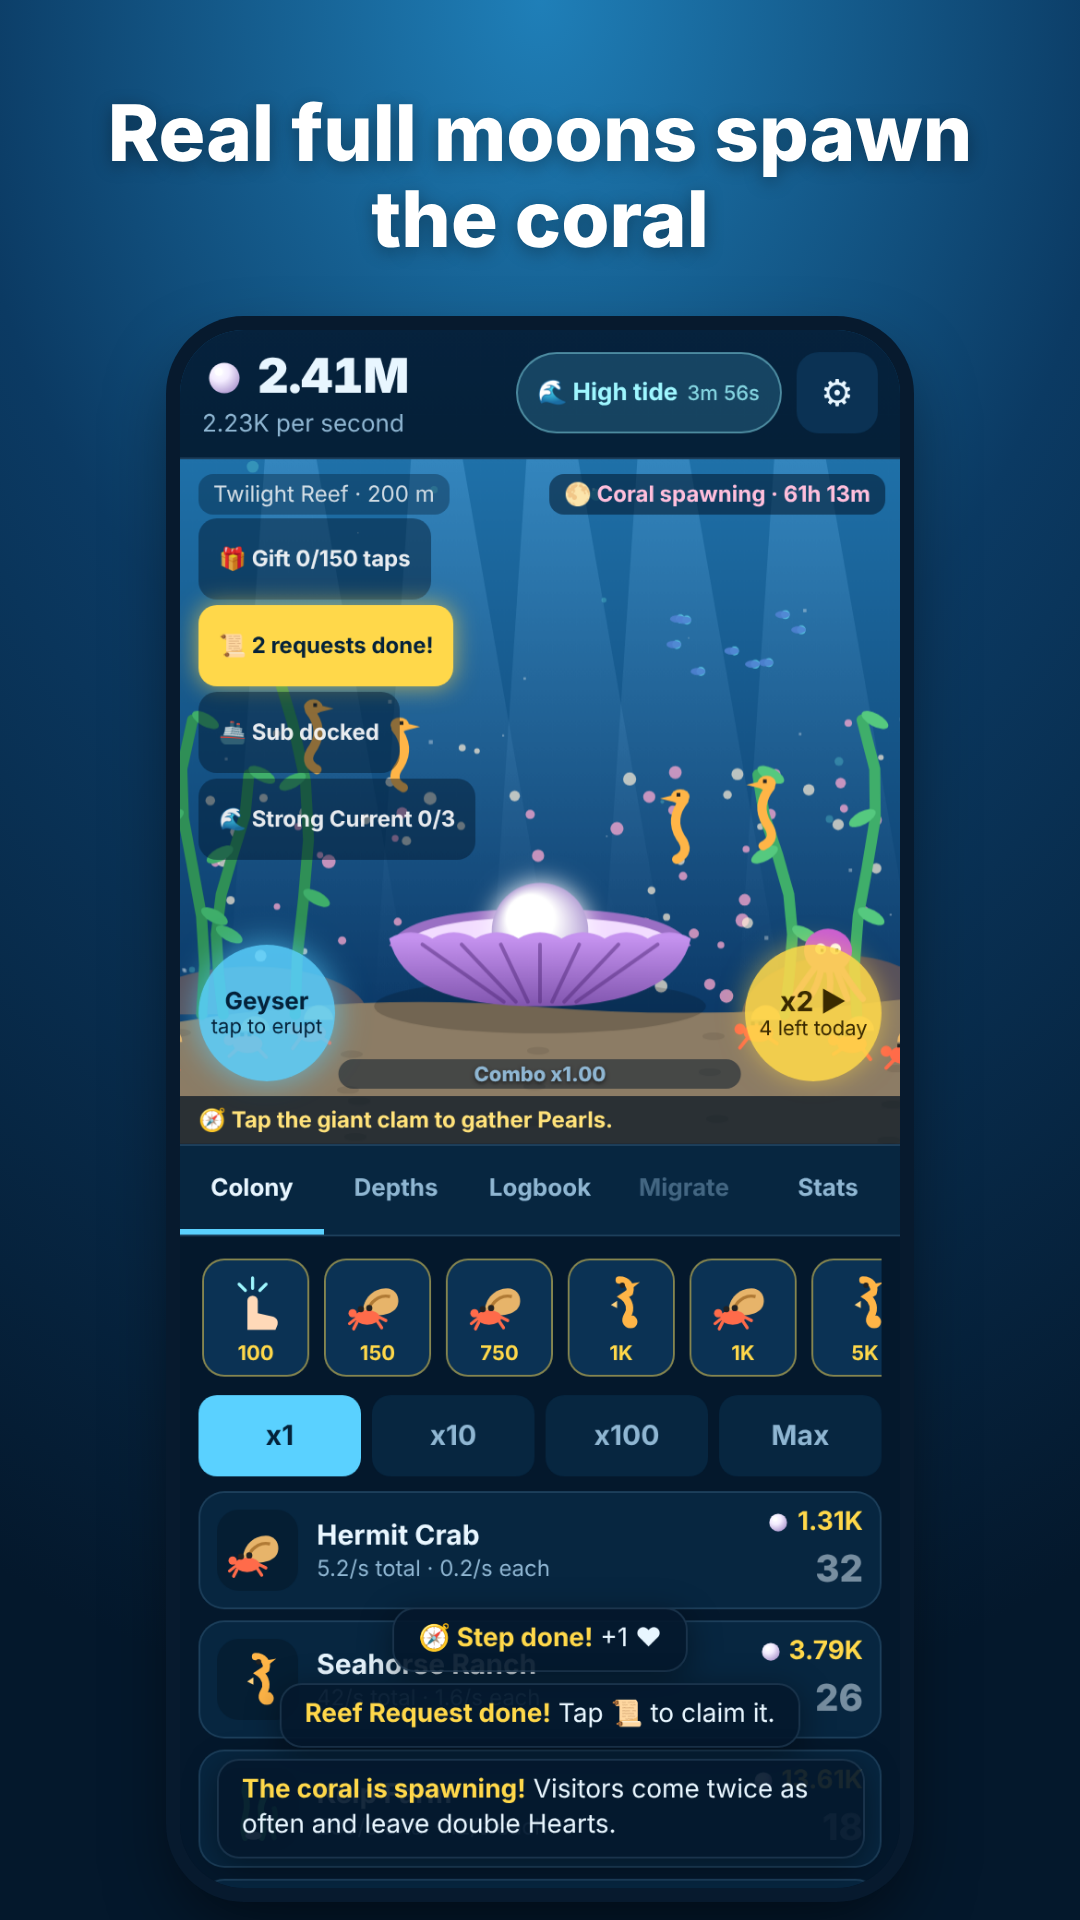
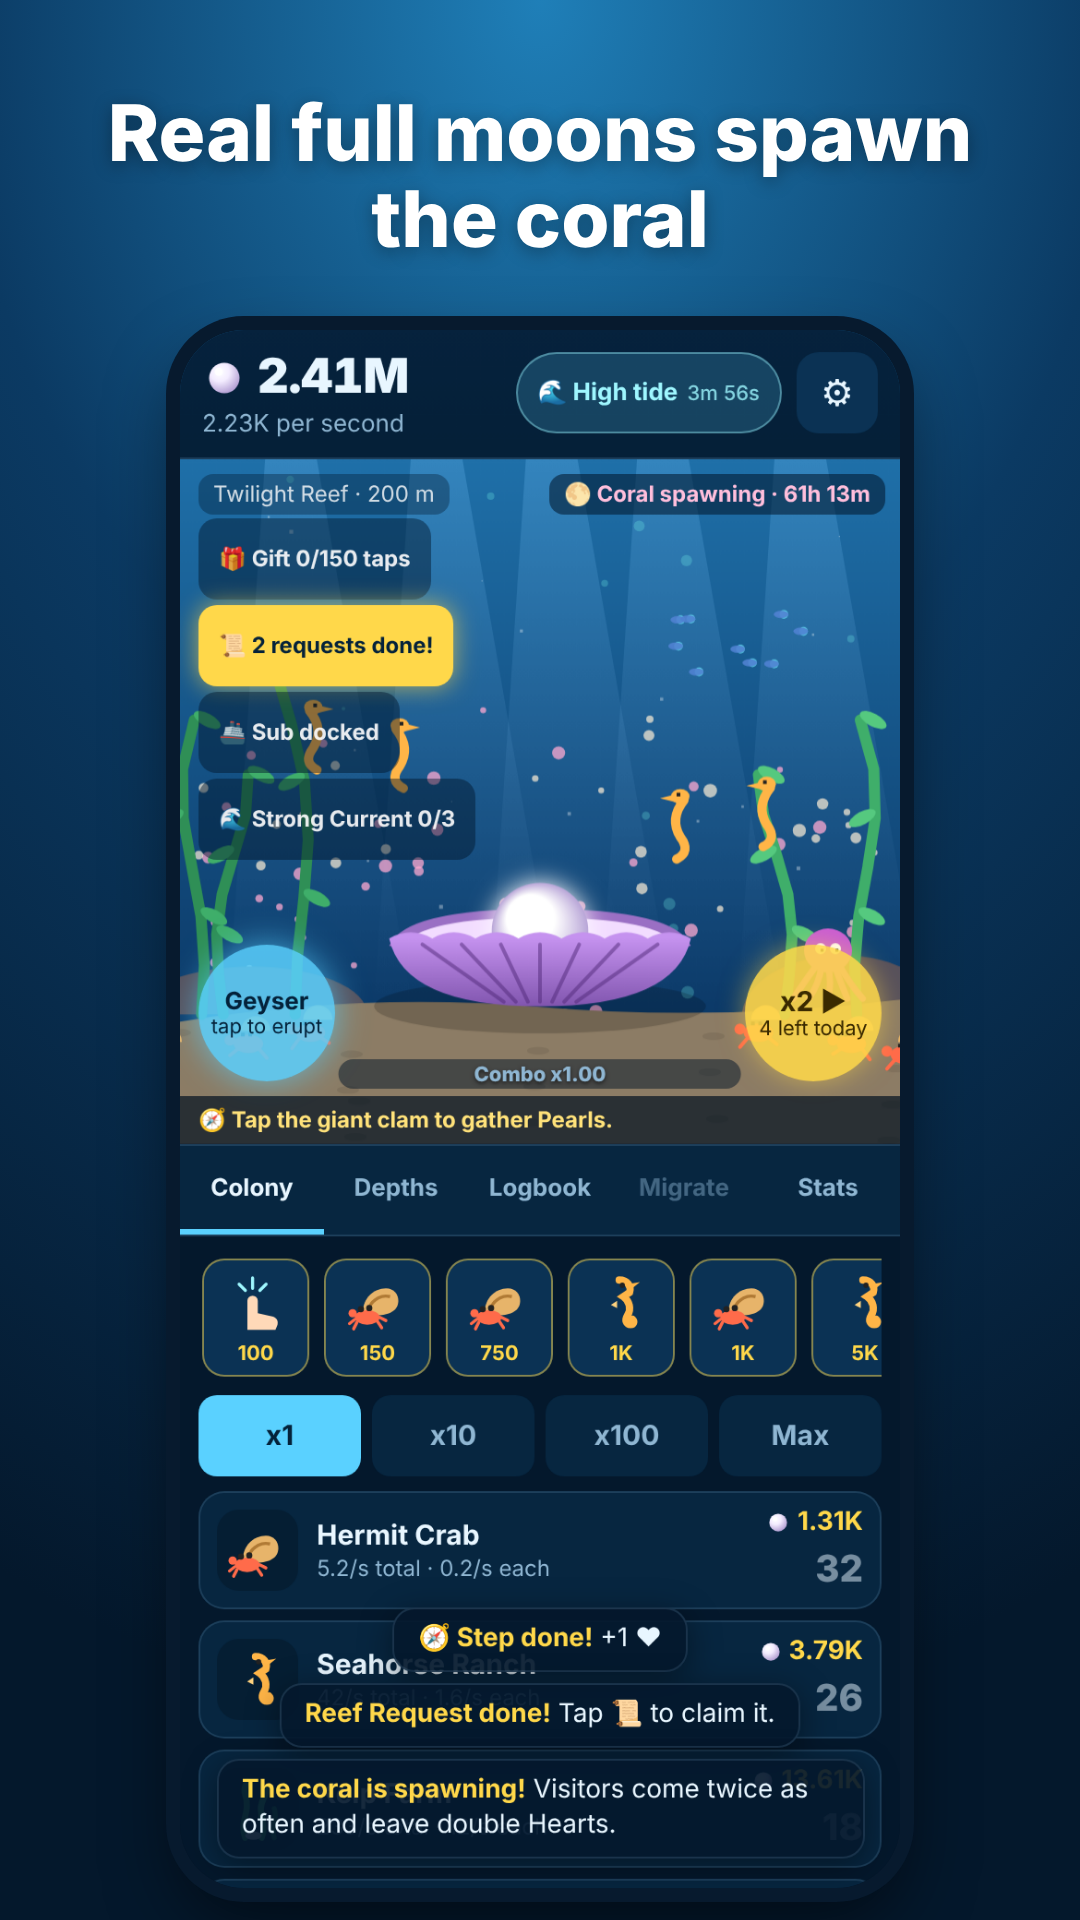
Fathom 0.6: Reduce motion setting
Claude-Session: https://claude.ai/code/session_01X25pDiwaU5FyRJ8RMUXnpT

diff --git a/deep-sea/src/ui/scene.ts b/deep-sea/src/ui/scene.ts
@@ -28,6 +28,8 @@ class Scene {
   motes: Mote[] = [];
   spawn: Mote[] = []; // coral spawn bundles rising during spawning nights
   squash = 0;
+  rt = 0; // real seconds, for floating numbers
+  calm = false;
   depthShown = 0;
   t = 0;
 
@@ -57,9 +59,9 @@ class Scene {
   get sandY() { return this.h * 0.8; }
 
   tapAt(x: number, y: number, text: string, color = '#ffffff') {
-    this.squash = 1;
-    this.floaters.push({ x: x + (Math.random() - 0.5) * 50, y: y - 10 - Math.random() * 20, text, born: this.t, color, size: 20 });
-    for (let i = 0; i < 4; i++) {
+    this.squash = this.calm ? 0.3 : 1;
+    this.floaters.push({ x: x + (Math.random() - 0.5) * 50, y: y - 10 - Math.random() * 20, text, born: this.rt, color, size: 20 });
+    for (let i = 0; i < (this.calm ? 1 : 4); i++) {
       this.bubbles.push({ x: this.clamX + (Math.random() - 0.5) * this.clamR, y: this.clamY - this.clamR * 0.2, r: 2 + Math.random() * 5, vy: 40 + Math.random() * 60, wob: Math.random() * 6 });
     }
     if (this.bubbles.length > 120) this.bubbles.splice(0, this.bubbles.length - 120);
@@ -67,7 +69,7 @@ class Scene {
   }
 
   announce(text: string, color: string) {
-    this.floaters.push({ x: this.w / 2, y: this.h * 0.35, text, born: this.t, color, size: 26 });
+    this.floaters.push({ x: this.w / 2, y: this.h * 0.35, text, born: this.rt, color, size: 26 });
   }
 
   visitorPos(v: Visitor, now: number): { x: number; y: number } {
@@ -88,7 +90,10 @@ class Scene {
   }
 
   draw(s: State, now: number, dt: number) {
-    this.t += dt;
+    // Reduce motion slows every sway and drift to about a third.
+    this.calm = s.settings.calm;
+    this.t += this.calm ? dt * 0.35 : dt;
+    this.rt += dt;
     const g = this.g;
     const { w, h } = this;
     g.setTransform(this.dpr, 0, 0, this.dpr, 0, 0);
@@ -167,17 +172,17 @@ class Scene {
     });
 
     // Floating numbers.
-    this.floaters = this.floaters.filter((f) => this.t - f.born < 1.3);
+    this.floaters = this.floaters.filter((f) => this.rt - f.born < 1.3);
     g.textAlign = 'center';
     this.floaters.forEach((f) => {
-      const age = this.t - f.born;
+      const age = this.rt - f.born, rise = age * (this.calm ? 20 : 60);
       g.globalAlpha = Math.max(0, 1 - age / 1.3);
       g.font = `800 ${f.size}px system-ui, sans-serif`;
       g.lineWidth = 4;
       g.strokeStyle = 'rgba(0,20,40,0.55)';
-      g.strokeText(f.text, f.x, f.y - age * 60);
+      g.strokeText(f.text, f.x, f.y - rise);
       g.fillStyle = f.color;
-      g.fillText(f.text, f.x, f.y - age * 60);
+      g.fillText(f.text, f.x, f.y - rise);
     });
     g.globalAlpha = 1;
     this.squash = Math.max(0, this.squash - dt * 6);

diff --git a/deep-sea/src/ui/app.ts b/deep-sea/src/ui/app.ts
@@ -46,6 +46,7 @@ class App {
     this.offline = applyOffline(this.s, Date.now());
     this.shownPearls = this.s.pearls;
     this.build();
+    document.body.classList.toggle('calm', this.s.settings.calm);
     checkAchievements(this.s);
     const welcome = () => {
       if (this.offline!.seconds > 0 && (this.offline!.pearls > 0 || this.awayItems(this.offline!.since).length)) this.showOffline(this.offline!);
@@ -89,7 +90,10 @@ class App {
       const text = localStorage.getItem(SAVE_KEY);
       if (text) return deserialize(text, Date.now());
     } catch (e) { console.warn('Could not load save', e); }
-    return newState(Date.now());
+    const s = newState(Date.now());
+    // New players start with the phone's own reduce motion choice.
+    s.settings.calm = !!window.matchMedia?.('(prefers-reduced-motion: reduce)').matches;
+    return s;
   }
 
   save() {
@@ -905,15 +909,17 @@ class App {
       <div class="setting"><span>Ocean ambience</span><button data-k="ambience">${on(s.settings.ambience)}</button></div>
       <div class="setting"><span>Vibration</span><button data-k="vibrate">${on(s.settings.vibrate)}</button></div>
       <div class="setting"><span>Reminders</span><button data-k="reminders">${on(s.settings.reminders)}</button></div>
+      <div class="setting"><span>Reduce motion</span><button data-k="calm">${on(s.settings.calm)}</button></div>
       <div class="setting"><span>Scientific numbers</span><button data-k="sci">${on(s.settings.sci)}</button></div>
       <div class="setting"><span>Save</span><button data-a="export">Export</button><button data-a="import">Import</button></div>
       <div class="setting"><span>Start over</span><button data-a="reset" class="danger">Reset</button></div>
-      <small>Fathom 0.5 · progress saves on this device.</small>`, [['Done', () => this.save()]]);
+      <small>Fathom 0.6 · progress saves on this device.</small>`, [['Done', () => this.save()]]);
     document.querySelectorAll<HTMLElement>('#modal .setting button').forEach((b) => b.addEventListener('click', () => {
       const k = b.dataset.k as keyof State['settings'] | undefined;
       if (k) {
         s.settings[k] = !s.settings[k]; b.textContent = on(s.settings[k]);
         if (k === 'reminders' && s.settings.reminders) askReminderPermission();
+        document.body.classList.toggle('calm', s.settings.calm);
         if (s.settings.sound && s.settings.ambience) startAmbient(s.zone); else stopAmbient();
         return;
       }

diff --git a/deep-sea/src/core/game.ts b/deep-sea/src/core/game.ts
@@ -24,7 +24,7 @@ interface State {
     taps: number; tapsRun: number; fish: number; whales: number; migrations: number;
     bestCombo: number; tapEarned: number; startedAt: number; runStartedAt: number; spawnCatches: number;
   };
-  settings: { sound: boolean; vibrate: boolean; sci: boolean; ambience: boolean; reminders: boolean };
+  settings: { sound: boolean; vibrate: boolean; sci: boolean; ambience: boolean; reminders: boolean; calm: boolean };
   buyAmount: number; // 1, 10, 100 or -1 for max
   lastSeen: number;
   daily: Daily;
@@ -68,7 +68,7 @@ function newState(now: number): State {
     perks: {},
     achievements: {},
     stats: { taps: 0, tapsRun: 0, fish: 0, whales: 0, migrations: 0, bestCombo: 0, tapEarned: 0, startedAt: now, runStartedAt: now, spawnCatches: 0 },
-    settings: { sound: true, vibrate: true, sci: false, ambience: true, reminders: true },
+    settings: { sound: true, vibrate: true, sci: false, ambience: true, reminders: true, calm: false },
     buyAmount: 1,
     lastSeen: now,
     daily: { day: '', taps: 0, claimedDay: '', streak: 0 },

diff --git a/deep-sea/tests/core.test.js b/deep-sea/tests/core.test.js
@@ -527,3 +527,12 @@ test('release notes show once to returning players and never to new ones', () =>
   assert.deepEqual(g.whatsNew(s).map((u) => u.id), [g.UPDATES[g.UPDATES.length - 1].id]);
   assert.ok(g.UPDATES.every((u, i) => u.id === i + 1 && u.items.length > 0));
 });
+
+test('reduce motion is off by default and old saves load with it off', () => {
+  assert.equal(g.newState(0).settings.calm, false);
+  const old = JSON.parse(g.serialize(g.newState(0)));
+  delete old.settings.calm;
+  assert.equal(g.deserialize(JSON.stringify(old), 0).settings.calm, false);
+  const on = g.newState(0); on.settings.calm = true;
+  assert.equal(g.deserialize(g.serialize(on), 0).settings.calm, true);
+});

diff --git a/deep-sea/src/core/data.ts b/deep-sea/src/core/data.ts
@@ -217,6 +217,9 @@ const UPDATES: UpdateDef[] = [
     ['🔍', 'Clearer, larger text everywhere.'],
     ['🌋', 'On short screens the geyser moves out of the way of the clam.'],
   ] },
+  { id: 3, version: '0.6', items: [
+    ['🌊', 'Reduce motion in Settings slows the sea and stops pulsing glows. It follows your phone setting.'],
+  ] },
 ];
 
 // Weekly ocean events. One runs each week (Monday to Sunday, UTC), in rotation; each counts one kind of play

diff --git a/deep-sea/www/styles.css b/deep-sea/www/styles.css
@@ -257,3 +257,6 @@ h3 .muted { color: var(--muted); font-weight: 600; }
   .geyser b, #surge b { font-size: 12px; }
   .geyser small, #surge small { font-size: 11px; letter-spacing: -0.2px; }
 }
+
+/* Reduce motion: no pulsing glows or pop-in; ready chips keep their steady glow. */
+body.calm *, body.calm *::before, body.calm *::after { animation: none !important; transition: none !important; }

diff --git a/deep-sea/docs/DESIGN.md b/deep-sea/docs/DESIGN.md
@@ -249,6 +249,12 @@ at the offline rate, shown in a welcome back popup. Export, import and hard rese
    relics for the submarine to find~~ (built), ~~a reef garden minigame~~ (built), ~~a weekly ocean
    event~~ (built).
 
+## Reduce motion
+
+A Reduce motion switch in Settings slows every sway and drift in the scene to about a third, makes floating
+numbers rise gently, cuts tap bubbles from four to one, softens the clam's squash, and stops the pulsing glows and
+pop-in animations. New players start with their phone's own reduce motion setting.
+
 ## What's new
 
 Returning players see a short "What's new" card once after an update, before the welcome back card. Notes live in
@@ -421,4 +427,12 @@ feature for weeks, run 15's note that two weeks of features have shipped since m
   stumbled on them. **Built: a What's new card** shown once after an update, listing the newest one or two
   releases with an icon per line, then the usual welcome back card. New players skip it. Version is now 0.5.
   Pacing is unchanged (1T at 89.8 minutes).
+- **Next:** the week two wrap-up: a summary of what shipped and the release steps that still need cj.
+
+**Run 17 (Oct 24).** Sources: Apple's and Android's reduce motion settings and the `prefers-reduced-motion` media
+query, the Game Accessibility Guidelines' advice to let players turn down background movement, store reviews of
+ocean idle games that mention motion sickness or "too busy to look at for long".
+- Fathom's scene is always moving (fish, jellies, kelp, bubbles) and four chips pulse when ready, with no way to
+  calm it. **Built: a Reduce motion setting** that follows the phone's setting for new players. Version 0.6, with
+  a What's new line. Pacing is unchanged (1T at 89.8 minutes).
 - **Next:** the week two wrap-up: a summary of what shipped and the release steps that still need cj.
